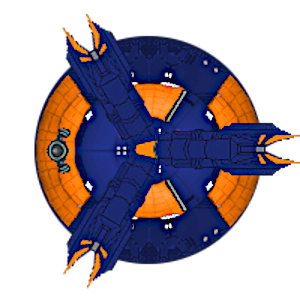
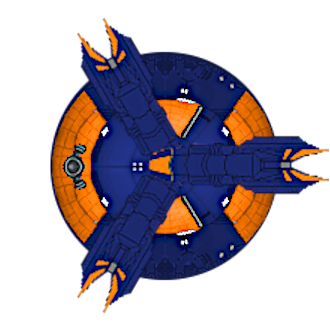
Pirocia Resizing

Changed region(s): [[0.09, 0.03, 1.0, 0.96], [0.6, 0.51, 0.63, 0.54]]

diff --git a/source/server/model/ships/abbai/Pirocia.php b/source/server/model/ships/abbai/Pirocia.php
@@ -11,7 +11,7 @@ class pirocia extends StarBaseSixSections
 		$this->phpclass = "pirocia";
 		$this->shipClass = "Pirocia Starbase";
 		$this->imagePath = "img/ships/AbbaiPirocia.png";
-		$this->canvasSize = 300;
+		$this->canvasSize = 330;
 		$this->fighters = array("normal" => 36);
 		$this->isd = 2230;
 
